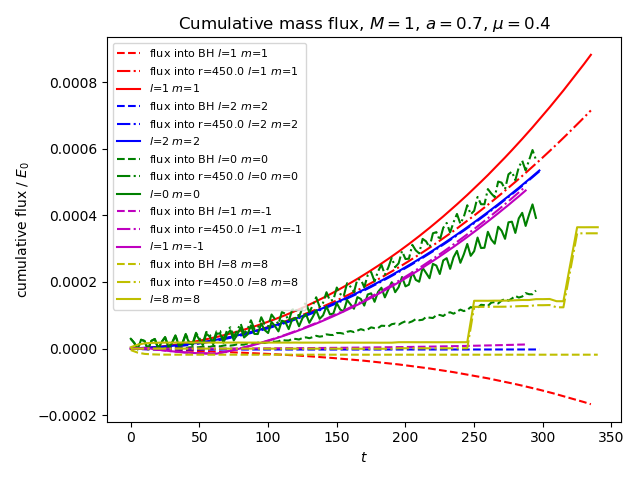
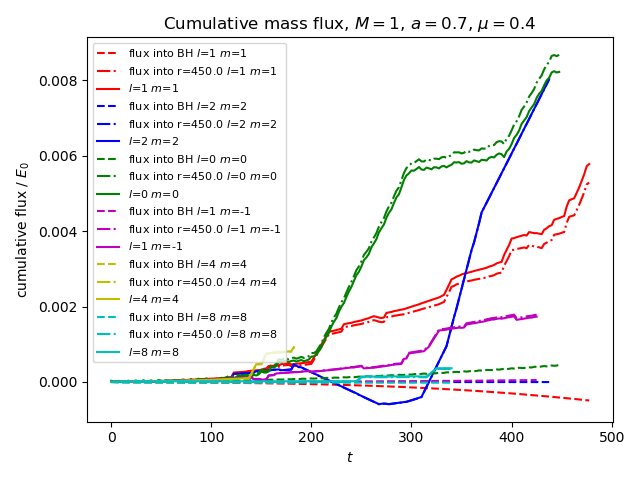
new plot

diff --git a/Analysis/scripts/plot_radial_profile_phi_compare_a_vs_Heun.py b/Analysis/scripts/plot_radial_profile_phi_compare_a_vs_Heun.py
@@ -1,0 +1,111 @@
+import numpy as np
+import time
+import matplotlib.pyplot as plt
+import math
+from os import makedirs
+import sys
+#from scipy.interpolate import interp1d
+from scipy.optimize import curve_fit
+import ctypes
+
+start_time = time.time()
+
+a_dirs = {}
+a_dirs["0"] = "run0031_KNL_l0_m0_a0_Al0_mu0.4_M1_correct_Ylm"
+a_dirs["0.7"] = "run0028_KNL_l0_m0_a0.7_Al0_mu0.4_M1_correct_Ylm"
+a_dirs["0.99"] = "run0029_KNL_l0_m0_a0.99_Al0_mu0.4_M1_correct_Ylm"
+
+number = 1550
+dt = 0.5
+t = number*dt
+lin_or_log=False
+
+# choose a values to plot
+a_list = ["0", "0.7", "0.99"]
+
+# set centre
+center = [512.0, 512.0, 0]
+
+#
+M = 1
+mu = 0.4
+omega = 0.4
+phi0 = 0.1
+
+
+if lin_or_log:
+	scale = "linear"
+else:
+	scale = "log"
+
+def get_chombo_data(a_str):
+	file_name = a_dirs[a_str] + "_phi_{:s}_n{:06d}.dat".format(scale, number)
+	data_root_path = "/home/dc-bamb1/GRChombo/Analysis/data/Y00_integration_data/"
+	dataset_path = data_root_path + file_name
+	data = np.genfromtxt(dataset_path, skip_header=1)
+	time = data[1, 0]
+	R = data[0,1:]
+	phi = data[1, 1:]/phi0
+	return (time, R, phi) 
+	
+# Stationary solution
+Kerrlib = ctypes.cdll.LoadLibrary('/home/dc-bamb1/GRChombo/Source/utils/KerrBH_Rfunc_lib.so')
+Kerrlib.Rfunc.argtypes = [ctypes.c_double, ctypes.c_double, ctypes.c_double, ctypes.c_double, ctypes.c_int, ctypes.c_int, ctypes.c_bool, ctypes.c_bool, ctypes.c_double, ctypes.c_double]
+Kerrlib.Rfunc.restype = ctypes.c_double
+
+def Stationary_sol_KS(r, A, a, phase, ingoing, t):
+        # double M, double mu, double omega, double a, int l, int m, bool ingoing, bool KS_or_BL, double t, double r
+        sol = np.zeros(r.size)
+        omega = mu
+        r_plus = M*(1 + np.sqrt(1 - a*a))
+        for i in range(0, r.size):
+                if (r[i]<=r_plus):
+                        sol[i] = 0
+                else:
+                     	sol[i] = Kerrlib.Rfunc(M, mu, omega, a, 0, 0, ingoing, False, t - 2*np.pi*phase/omega, r[i])
+        sol = np.abs(A)*sol
+        return sol
+	
+### plot phi profiles vs r_BS
+colours = ['b-', 'r-', 'g-']
+colours2 = ['k--', 'm--', 'c--']
+# make  plot 
+
+for i in range(0, len(a_list)):
+	a = float(a_list[i])
+	r_plus = M*(1 + math.sqrt(1 - a**2))
+	r_minus = M*(1 - math.sqrt(1 - a**2))
+	t, r, phi = get_chombo_data(a_list[i])
+	if lin_or_log:
+		x = r/M
+	else:
+		x = np.log10(r/M)	
+	plt.plot(x, phi, colours[i], markersize=2, label="a = " + a_list[i])
+	###
+	# --- fit stationary solution(s)
+	if (a==0):
+		#A = 7.9
+		def Stationary_sol_KS_fit(r, A, phase):
+			print("testing A={:.2f} phase={:.2f}".format(A, phase))
+			return Stationary_sol_KS(r, A, a, phase, True, t)
+		popt, pconv = curve_fit(Stationary_sol_KS_fit, r, phi, p0=(10, 0))
+		phi_fitted = Stationary_sol_KS_fit(r, popt[0], popt[1])		
+		plt.plot(x, phi_fitted, 'k--', linewidth=1, label="KS stat. sol., a=0, amplitude={:.2f} phase={:.2}".format(popt[0], popt[1]))		
+plt.ylabel("$\\phi_{00}/\\phi_0$")
+plt.legend(fontsize=8)
+#plt.xlim((0, 100))
+#plt.ylim((-7.5, 7.5))
+title = "$\\Phi$ profile, Isotropic Kerr coordinates, $M\mu=M\omega=0.4$ $l=m=0$ time={:.1f}".format(t) 
+plt.title(title)
+if lin_or_log:
+	plt.xlabel("$r_{BL}/M$")
+else:
+	plt.xlabel("$\\log_{10}(r_{BL}/M)$")
+plt.grid(axis="both")
+plt.tight_layout()
+save_root_path = "/home/dc-bamb1/GRChombo/Analysis/plots/" 
+save_name = "phi_profile_compare_a_vs_Heun_{:s}_t={:.1f}_rmax_100.png".format(scale, t)
+save_path = save_root_path + save_name
+plt.savefig(save_path, transparent=False)
+plt.clf()
+print("saved " + str(save_path))

diff --git a/Analysis/ReprocessingTools/FluxExtraction_KerrSchild_v1/KerrSchildFluxExtraction.hpp b/Analysis/ReprocessingTools/FluxExtraction_KerrSchild_v1/KerrSchildFluxExtraction.hpp
@@ -44,7 +44,9 @@ class KSFluxExtraction : public KSSpheroidalExtraction
     void execute_query(AMRInterpolator<Lagrange<4>> *a_interpolator)
     {
         // extract the values of the Flux scalars on the spheres
-        extract(a_interpolator);
+        pout() << "starting query" << endl;
+	extract(a_interpolator);
+	pout() << "done extraction from interpolator" << endl;
 
         // this would write out the values at every point on the sphere
         if (m_params.write_extraction)
@@ -54,15 +56,20 @@ class KSFluxExtraction : public KSSpheroidalExtraction
 
         // Setup to integrate J_rKS and J_azimuth_rKS
         std::vector<std::vector<double>> flux_integrals(2);
+	pout() << "made flux integrals vector" << endl;
+	pout() << "m_J_rKS = " << m_J_rKS << endl;
         add_var_integrand(m_J_rKS, flux_integrals[m_J_rKS], 
                                   IntegrationMethod::simpson);
         add_var_integrand(m_J_azimuth_rKS, flux_integrals[m_J_azimuth_rKS], 
                                   IntegrationMethod::simpson);
+	pout() << "added the integrand variables" << endl;
 
         // do the integration over the surface
         integrate();
+	pout() << "done integration" << endl;
 
         // write the integrals
+	pout() << "starting writing the integrals" << endl;
         std::vector<std::string> labels(2);
         labels[m_J_rKS] = "J_rKS";
         labels[m_J_azimuth_rKS] = "J_azimuth_rKS";

diff --git a/Analysis/scripts/plot_mass_flux_KS.py b/Analysis/scripts/plot_mass_flux_KS.py
@@ -43,9 +43,9 @@ add_data_dir(103, 0, 0, "0.7", "0.4")
 add_data_dir(104, 1, -1, "0.7", "0.4")
 #add_data_dir(105, 0, 0, "0.99", "0.4")
 #add_data_dir(106, 1, 1, "0.99", "0.4")
-#add_data_dir(107, 4, 4, "0.7", "0.4")
+add_data_dir(107, 4, 4, "0.7", "0.4")
+#add_data_dir(108, 2, 2, "0.7", "0.8")
 add_data_dir(109, 8, 8, "0.7", "0.4")
-
 #add_data_dir(110, 1, 1, "0.7", "0.05")
 #add_data_dir(111, 1, 1, "0.7", "1")
 
@@ -53,7 +53,7 @@ add_data_dir(109, 8, 8, "0.7", "0.4")
 data_root_path = "/rds/user/dc-bamb1/rds-dirac-dp131/dc-bamb1/GRChombo_data/KerrSF"
 home_path="/home/dc-bamb1/GRChombo/Analysis/"
 
-output_dir = "data/Y00_integration_data"
+output_dir = "data/flux_data"
 
 half_box = True
 

diff --git a/Analysis/ReprocessingTools/Y00Integration/Y00Integration.impl.hpp b/Analysis/ReprocessingTools/Y00Integration/Y00Integration.impl.hpp
@@ -39,7 +39,7 @@ inline void Y00Integration::execute_query(
             double theta = (itheta + 0.5) * m_dtheta;
             double phi = iphi * m_dphi;
 	    double r = m_params.integration_radii[iradius];
-            double R = 0.5 * (r + sqrt(r*(r-r_plus)) - r_plus/2);
+            double R = 0.5 * (r + sqrt(r*max(0.0,(r-r_plus))) - r_plus/2);
 	    interp_x[iradius * m_num_points + idx] =
                 m_params.integration_center[0] + sin(theta) * R * cos(phi);
             interp_y[iradius * m_num_points + idx] =

diff --git a/Analysis/ReprocessingTools/FluxExtraction_KerrSchild_v1/SimulationParameters.hpp b/Analysis/ReprocessingTools/FluxExtraction_KerrSchild_v1/SimulationParameters.hpp
@@ -74,7 +74,7 @@ class SimulationParameters : public ChomboParameters
             pp.load("extraction_level", extraction_params.extraction_levels, 1,
                     0);
         }
-	flux_file_name = flux_data_dir + data_subdir + "_mass_ang_mom_flux.csv";
+	flux_file_name = flux_data_dir + data_subdir + "_flux_v1.dat";
     }
 
     int plot_interval, start_number, end_number;
